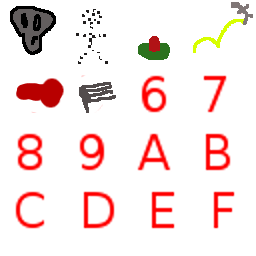
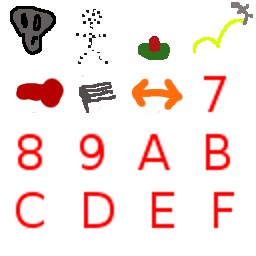
Add anti-powerup that reverses movement controls.

Changed region(s): [[0.5, 0.2812, 0.7188, 0.4375]]

diff --git a/powerups.cc b/powerups.cc
@@ -5,7 +5,7 @@
 #include "player.hh"
 
 const Powerup::Type Powerup::PowerupTypes[] =
-	{ DEATH, INVISIBILITY, MINE, DOUBLEJUMP, PUNCH, GUN };
+	{ DEATH, INVISIBILITY, MINE, DOUBLEJUMP, PUNCH, GUN, CONFUSION };
 
 void Powerup::equip(Actor* owner) {
 	if (type == DEATH) { owner->die(); return; }
@@ -13,6 +13,7 @@ void Powerup::equip(Actor* owner) {
 	float time = 3600;
 	ammo = 10000;
 	if (type == INVISIBILITY) { time = 10; owner->invisible = true; }
+	else if (type == CONFUSION) { time = 10; owner->reversecontrols = true; }
 	else if (type == PUNCH) { time = 10; }
 	else if (type == MINE) { ammo = 1; }
 	else if (type == GUN) { ammo = 3; }
@@ -23,6 +24,7 @@ void Powerup::equip(Actor* owner) {
 
 void Powerup::unequip(Actor* owner) {
 	if (type == INVISIBILITY) { owner->invisible = false; }
+	else if (type == CONFUSION) { owner->reversecontrols = false; }
 	else if (type == DOUBLEJUMP) { owner->doublejump = DJUMP_DISALLOW; }
 }
 
